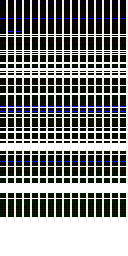
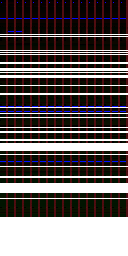
fix color precision issue on mobile

diff --git a/scripts/render-block-defs.js b/scripts/render-block-defs.js
@@ -56,7 +56,7 @@ module.exports = function renderBlockDefs(data) {
       // pixels
       t['translate_' + key] + 16,
       // pixels
-      t['shrink_' + key] + 16
+      255 - t['shrink_' + key]
     ];
   }
 
